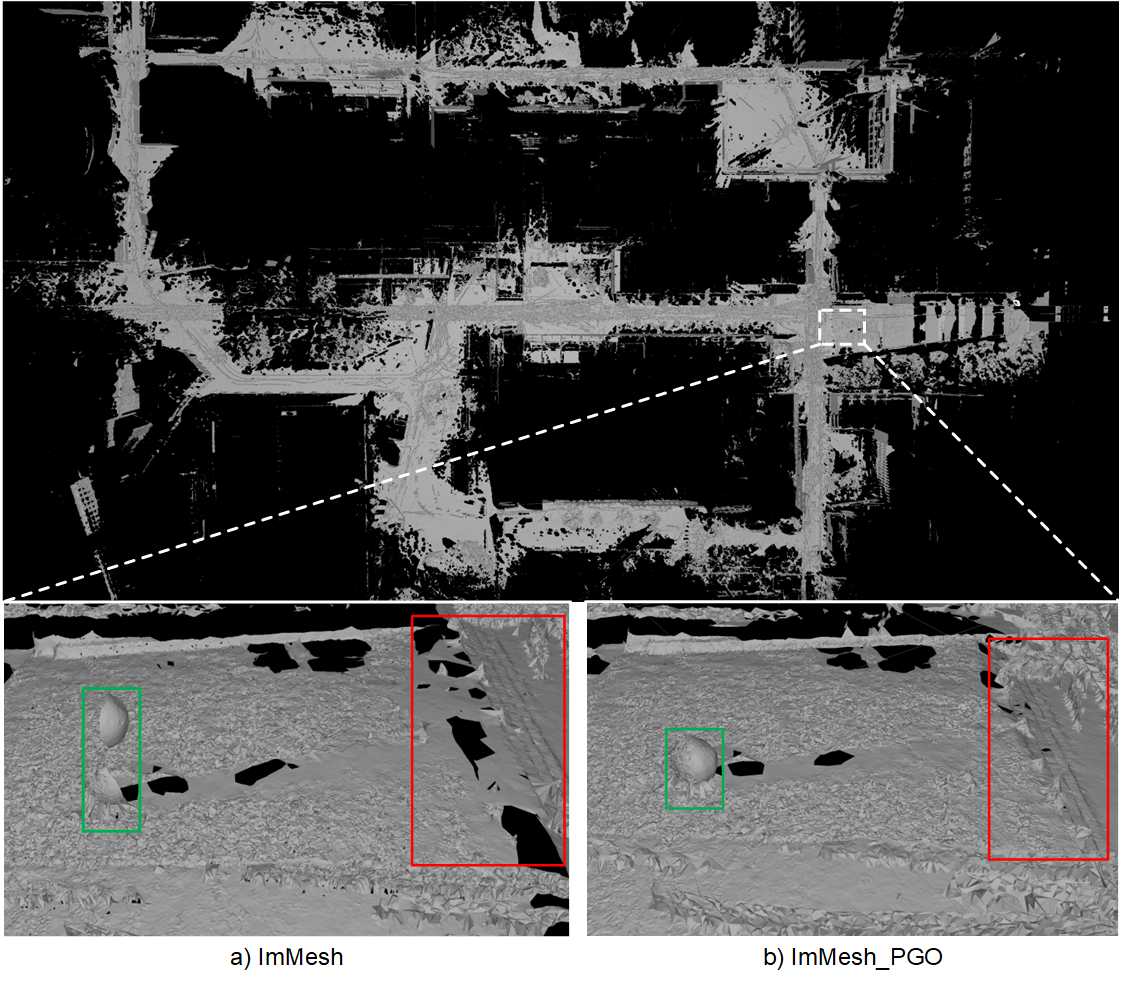
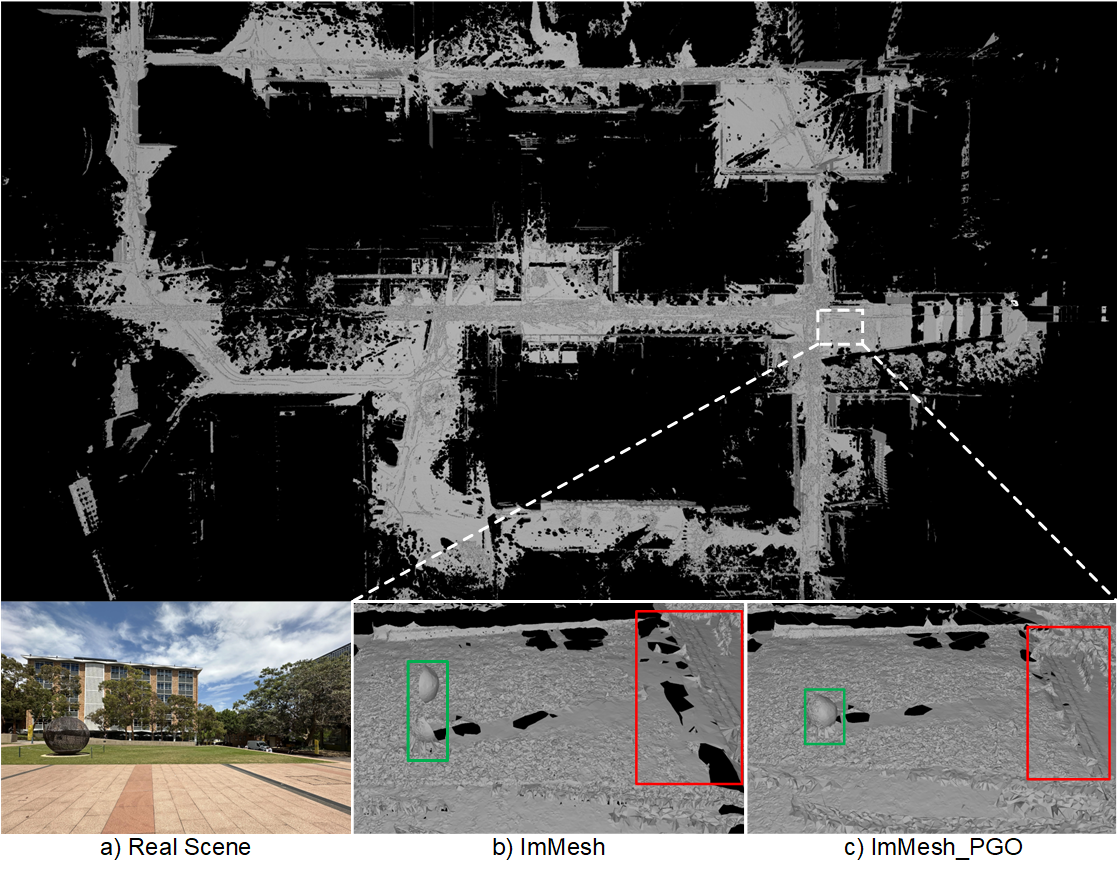
10/31 update readme

diff --git a/README.md b/README.md
@@ -1,7 +1,7 @@
 # ImMesh_PGO: An Immediate LiDAR Localization and Meshing Framework with Loop Closure
 
-## Comparison Result
-(Left) **ImMesh**, (Right) **ImMesh_PGO** running on [unsw_lowercampus_20240916.bag](https://drive.google.com/file/d/1MKNC0-r70R1s6TmWuQgkmCrFHw4ZtRb8/view?usp=sharing).
+## Comparison of Consistent Mapping
+(Left) Photo of the Scene, (Middle) **ImMesh**, (Right) **ImMesh_PGO** running on [unsw_lowercampus_20240916.bag](https://drive.google.com/file/d/1MKNC0-r70R1s6TmWuQgkmCrFHw4ZtRb8/view?usp=sharing).
 <div align="center">
 <img src="supply/Consistent_mapping_comparison.png" alt="img" width="100%" />
 </div>
@@ -40,10 +40,10 @@ source ~/catkin_ws/devel/setup.bash
 ```
 
 ## 3. Run
-Use this command, you can run [building_slower_motion_avia.bag](https://drive.usercontent.google.com/download?id=1I3ghnN5o5v4RHTkCgP-6U-5pGG7OMl0D&export=download&authuser=0&confirm=t&uuid=c7a61ebe-ee10-40c0-9bde-b71840a3db89&at=AN_67v3YtYGHHXmh46zbSSWpq-YY:1729412069977).
+Use this command, you can run [unsw_lowercampus_20240916.bag](https://drive.google.com/file/d/1MKNC0-r70R1s6TmWuQgkmCrFHw4ZtRb8/view?usp=sharing).
 ```
-roslaunch immesh_pgo mapping_avia.launch
-rosbag play building_slower_motion_avia.bag
+roslaunch immesh_pgo mapping_horizon.launch
+rosbag play unsw_lowercampus_20240916.bag
 ```
 Since I only incrementally updated the mesh after the loop-closure optimization, the old mesh features have not been removed and will be mixed with the new ones.
 
@@ -51,9 +51,9 @@ If you want to have a map constructed from loop-closure-optimized poses, you can
 
 1. Run ImMesh_PGO.
 ```
-roslaunch immesh_pgo mapping_avia.launch
+roslaunch immesh_pgo mapping_horizon.launch
 ```
-2. Click "Save PGO Cloud to file" in the UI and you will get a corrected pointcloud in your "~/ImMesh_PGO" directory.
+2. Click "Save PGO Cloud to file" in the UI and you will get a corrected pointcloud in your `~/ImMesh_PGO` directory.
 
 3. Build the mesh using the pointcloud. You need to change the path in the launch file.
 ```
